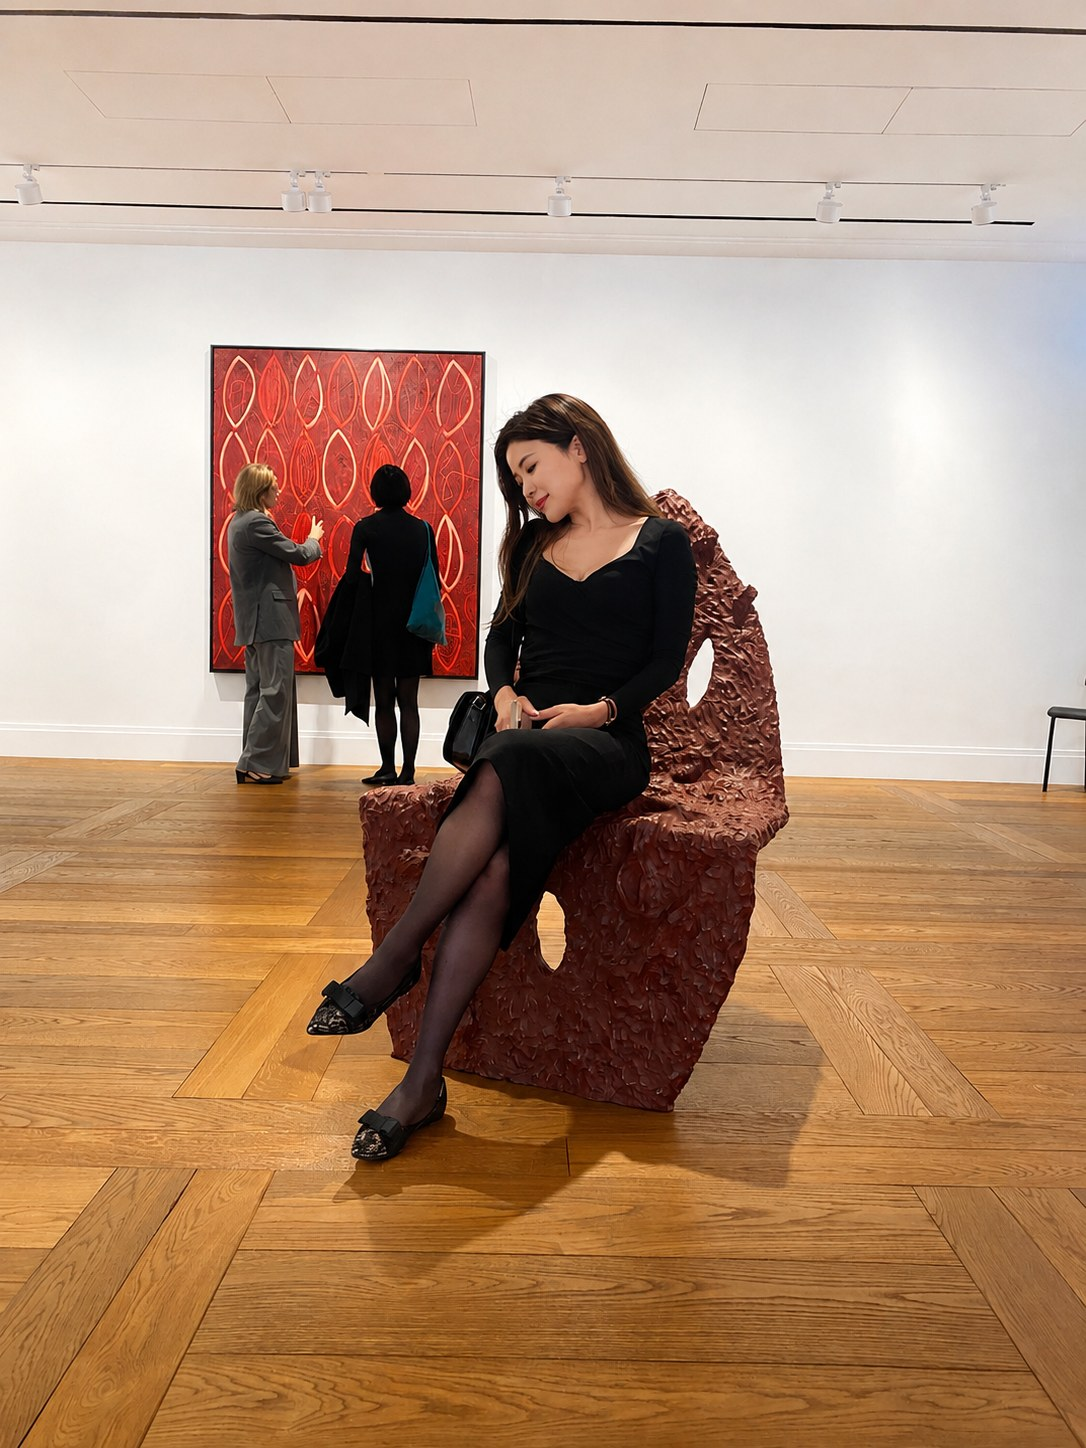
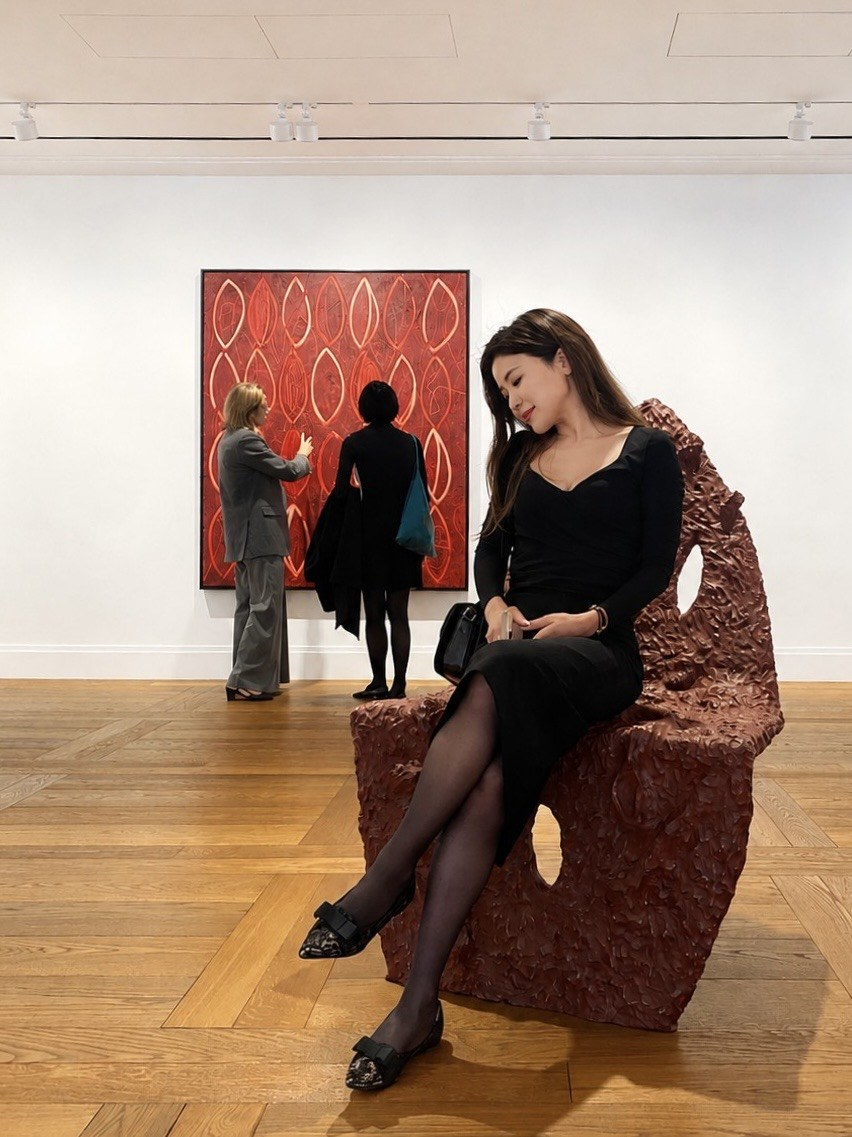
Replace profile photo with new gallery portrait

diff --git a/about.html b/about.html
@@ -9,7 +9,7 @@
 <link rel="preconnect" href="https://fonts.googleapis.com">
 <link rel="preconnect" href="https://fonts.gstatic.com" crossorigin>
 <link href="https://fonts.googleapis.com/css2?family=Cormorant+Garamond:ital,wght@0,300;0,400;0,500;1,300&family=Inter:wght@300;400;500&family=Noto+Sans+JP:wght@300;400;500&family=Noto+Serif+JP:wght@300;400;500&display=swap" rel="stylesheet">
-<link rel="stylesheet" href="styles.css?v=20260826o">
+<link rel="stylesheet" href="styles.css?v=20260826p">
 </head>
 <body>
 
@@ -173,7 +173,7 @@
       </div>
 
       <div class="profile-image">
-        <img src="images/about-profile.jpg" alt="">
+        <img src="images/about-profile.jpg?v=20260826p" alt="">
       </div>
     </div>
   </div>
@@ -197,6 +197,6 @@
   </div>
 </footer>
 
-<script src="script.js?v=20260826o"></script>
+<script src="script.js?v=20260826p"></script>
 </body>
 </html>

diff --git a/index.html b/index.html
@@ -9,7 +9,7 @@
 <link rel="preconnect" href="https://fonts.googleapis.com">
 <link rel="preconnect" href="https://fonts.gstatic.com" crossorigin>
 <link href="https://fonts.googleapis.com/css2?family=Cormorant+Garamond:ital,wght@0,300;0,400;0,500;1,300&family=Inter:wght@300;400;500&family=Noto+Sans+JP:wght@300;400;500&family=Noto+Serif+JP:wght@300;400;500&display=swap" rel="stylesheet">
-<link rel="stylesheet" href="styles.css?v=20260826o">
+<link rel="stylesheet" href="styles.css?v=20260826p">
 </head>
 <body>
 
@@ -192,7 +192,7 @@
   </div>
 </footer>
 
-<script src="script.js?v=20260826o"></script>
+<script src="script.js?v=20260826p"></script>
 
 <!-- Instagram連携 (Behold JSONフィード): 最新投稿でタイルを差し替え。
      取得失敗・0件（例: コラボ投稿はAPI対象外）の間は上の静的タイルを表示 -->

diff --git a/404.html b/404.html
@@ -8,7 +8,7 @@
 <link rel="preconnect" href="https://fonts.googleapis.com">
 <link rel="preconnect" href="https://fonts.gstatic.com" crossorigin>
 <link href="https://fonts.googleapis.com/css2?family=Cormorant+Garamond:ital,wght@0,300;0,400;0,500;1,300&family=Inter:wght@300;400;500&family=Noto+Sans+JP:wght@300;400;500&family=Noto+Serif+JP:wght@300;400;500&display=swap" rel="stylesheet">
-<link rel="stylesheet" href="/styles.css?v=20260826o">
+<link rel="stylesheet" href="/styles.css?v=20260826p">
 </head>
 <body>
 
@@ -85,6 +85,6 @@
   </div>
 </footer>
 
-<script src="/script.js?v=20260826o"></script>
+<script src="/script.js?v=20260826p"></script>
 </body>
 </html>

diff --git a/calendar.html b/calendar.html
@@ -9,7 +9,7 @@
 <link rel="preconnect" href="https://fonts.googleapis.com">
 <link rel="preconnect" href="https://fonts.gstatic.com" crossorigin>
 <link href="https://fonts.googleapis.com/css2?family=Cormorant+Garamond:ital,wght@0,300;0,400;0,500;1,300&family=Inter:wght@300;400;500&family=Noto+Sans+JP:wght@300;400;500&family=Noto+Serif+JP:wght@300;400;500&display=swap" rel="stylesheet">
-<link rel="stylesheet" href="styles.css?v=20260826o">
+<link rel="stylesheet" href="styles.css?v=20260826p">
 </head>
 <body>
 
@@ -254,6 +254,6 @@
   </div>
 </footer>
 
-<script src="script.js?v=20260826o"></script>
+<script src="script.js?v=20260826p"></script>
 </body>
 </html>

diff --git a/contact.html b/contact.html
@@ -9,7 +9,7 @@
 <link rel="preconnect" href="https://fonts.googleapis.com">
 <link rel="preconnect" href="https://fonts.gstatic.com" crossorigin>
 <link href="https://fonts.googleapis.com/css2?family=Cormorant+Garamond:ital,wght@0,300;0,400;0,500;1,300&family=Inter:wght@300;400;500&family=Noto+Sans+JP:wght@300;400;500&family=Noto+Serif+JP:wght@300;400;500&display=swap" rel="stylesheet">
-<link rel="stylesheet" href="styles.css?v=20260826o">
+<link rel="stylesheet" href="styles.css?v=20260826p">
 </head>
 <body>
 
@@ -152,6 +152,6 @@
   </div>
 </footer>
 
-<script src="script.js?v=20260826o"></script>
+<script src="script.js?v=20260826p"></script>
 </body>
 </html>

diff --git a/services.html b/services.html
@@ -9,7 +9,7 @@
 <link rel="preconnect" href="https://fonts.googleapis.com">
 <link rel="preconnect" href="https://fonts.gstatic.com" crossorigin>
 <link href="https://fonts.googleapis.com/css2?family=Cormorant+Garamond:ital,wght@0,300;0,400;0,500;1,300&family=Inter:wght@300;400;500&family=Noto+Sans+JP:wght@300;400;500&family=Noto+Serif+JP:wght@300;400;500&display=swap" rel="stylesheet">
-<link rel="stylesheet" href="styles.css?v=20260826o">
+<link rel="stylesheet" href="styles.css?v=20260826p">
 </head>
 <body>
 
@@ -207,6 +207,6 @@
   </div>
 </footer>
 
-<script src="script.js?v=20260826o"></script>
+<script src="script.js?v=20260826p"></script>
 </body>
 </html>

diff --git a/journal.html b/journal.html
@@ -9,7 +9,7 @@
 <link rel="preconnect" href="https://fonts.googleapis.com">
 <link rel="preconnect" href="https://fonts.gstatic.com" crossorigin>
 <link href="https://fonts.googleapis.com/css2?family=Cormorant+Garamond:ital,wght@0,300;0,400;0,500;1,300&family=Inter:wght@300;400;500&family=Noto+Sans+JP:wght@300;400;500&family=Noto+Serif+JP:wght@300;400;500&display=swap" rel="stylesheet">
-<link rel="stylesheet" href="styles.css?v=20260826o">
+<link rel="stylesheet" href="styles.css?v=20260826p">
 </head>
 <body>
 
@@ -93,6 +93,6 @@
   </div>
 </footer>
 
-<script src="script.js?v=20260826o"></script>
+<script src="script.js?v=20260826p"></script>
 </body>
 </html>
